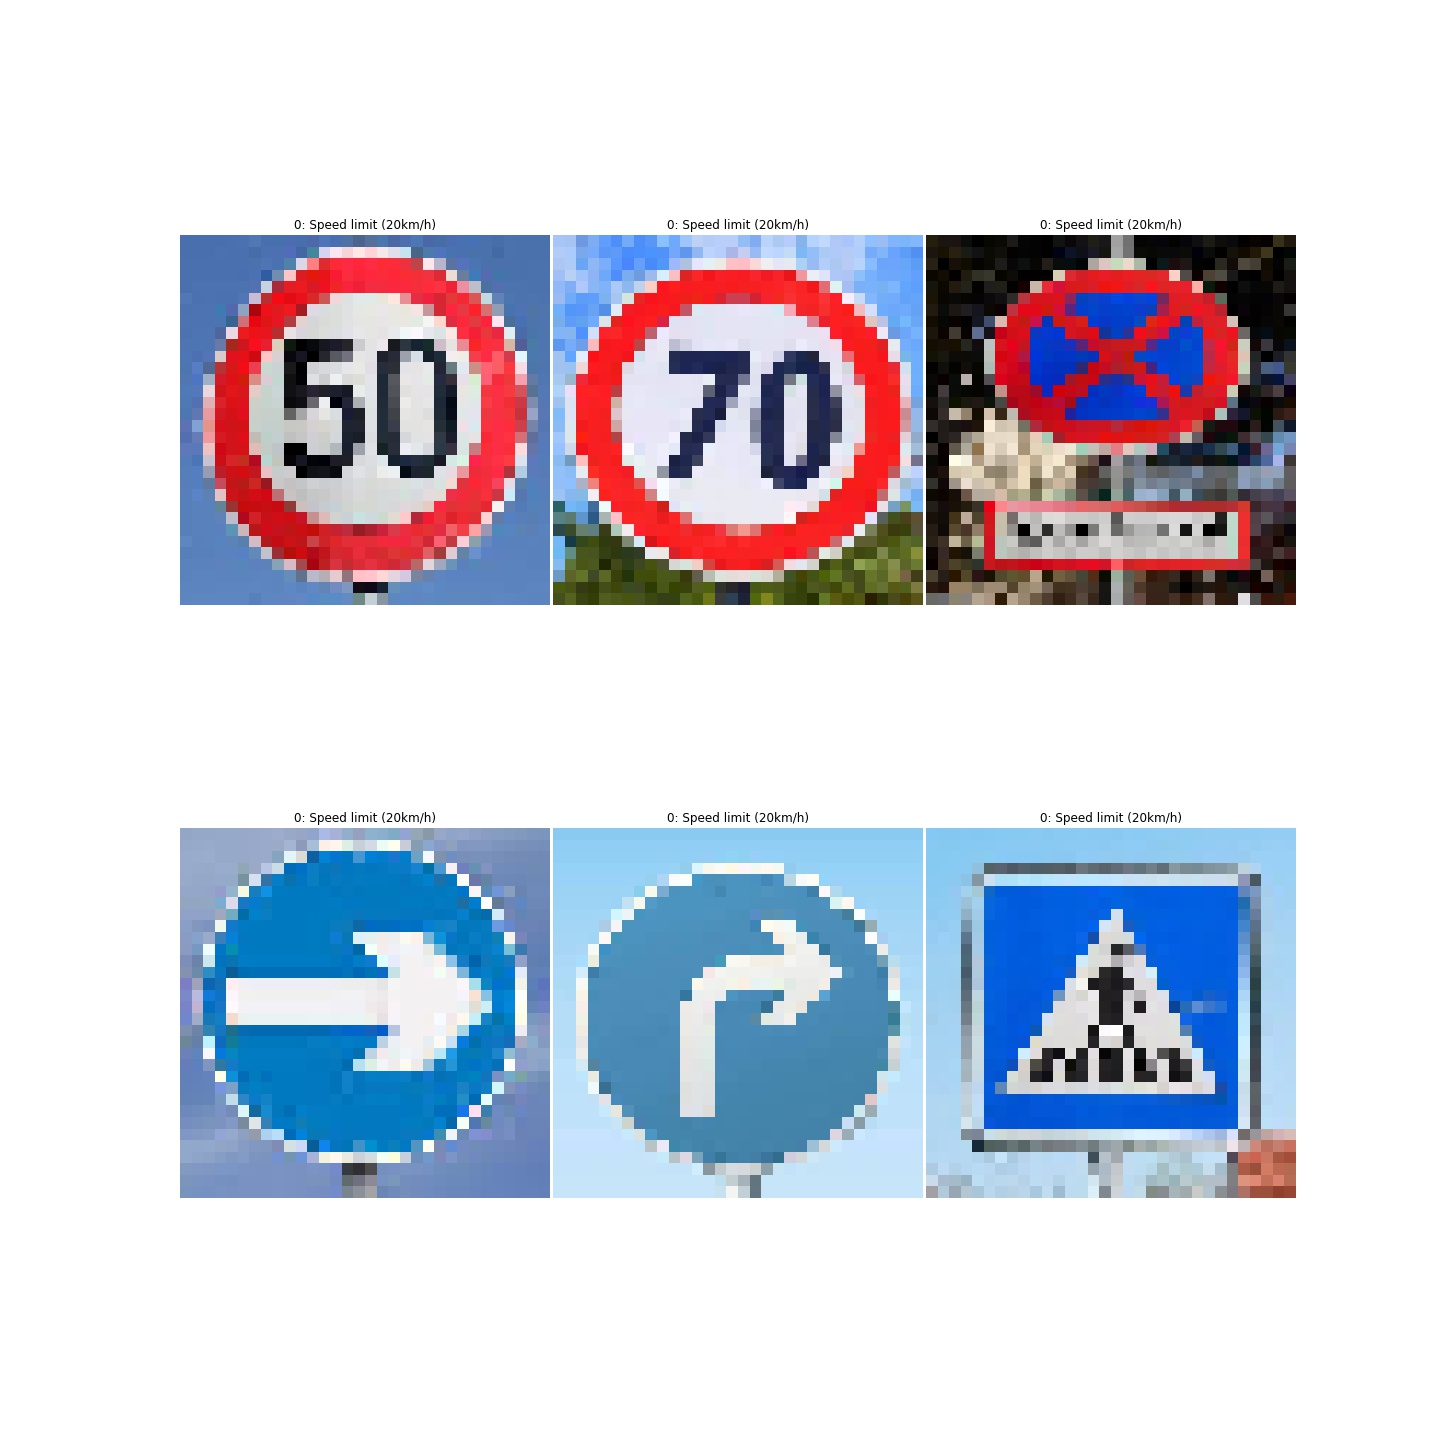
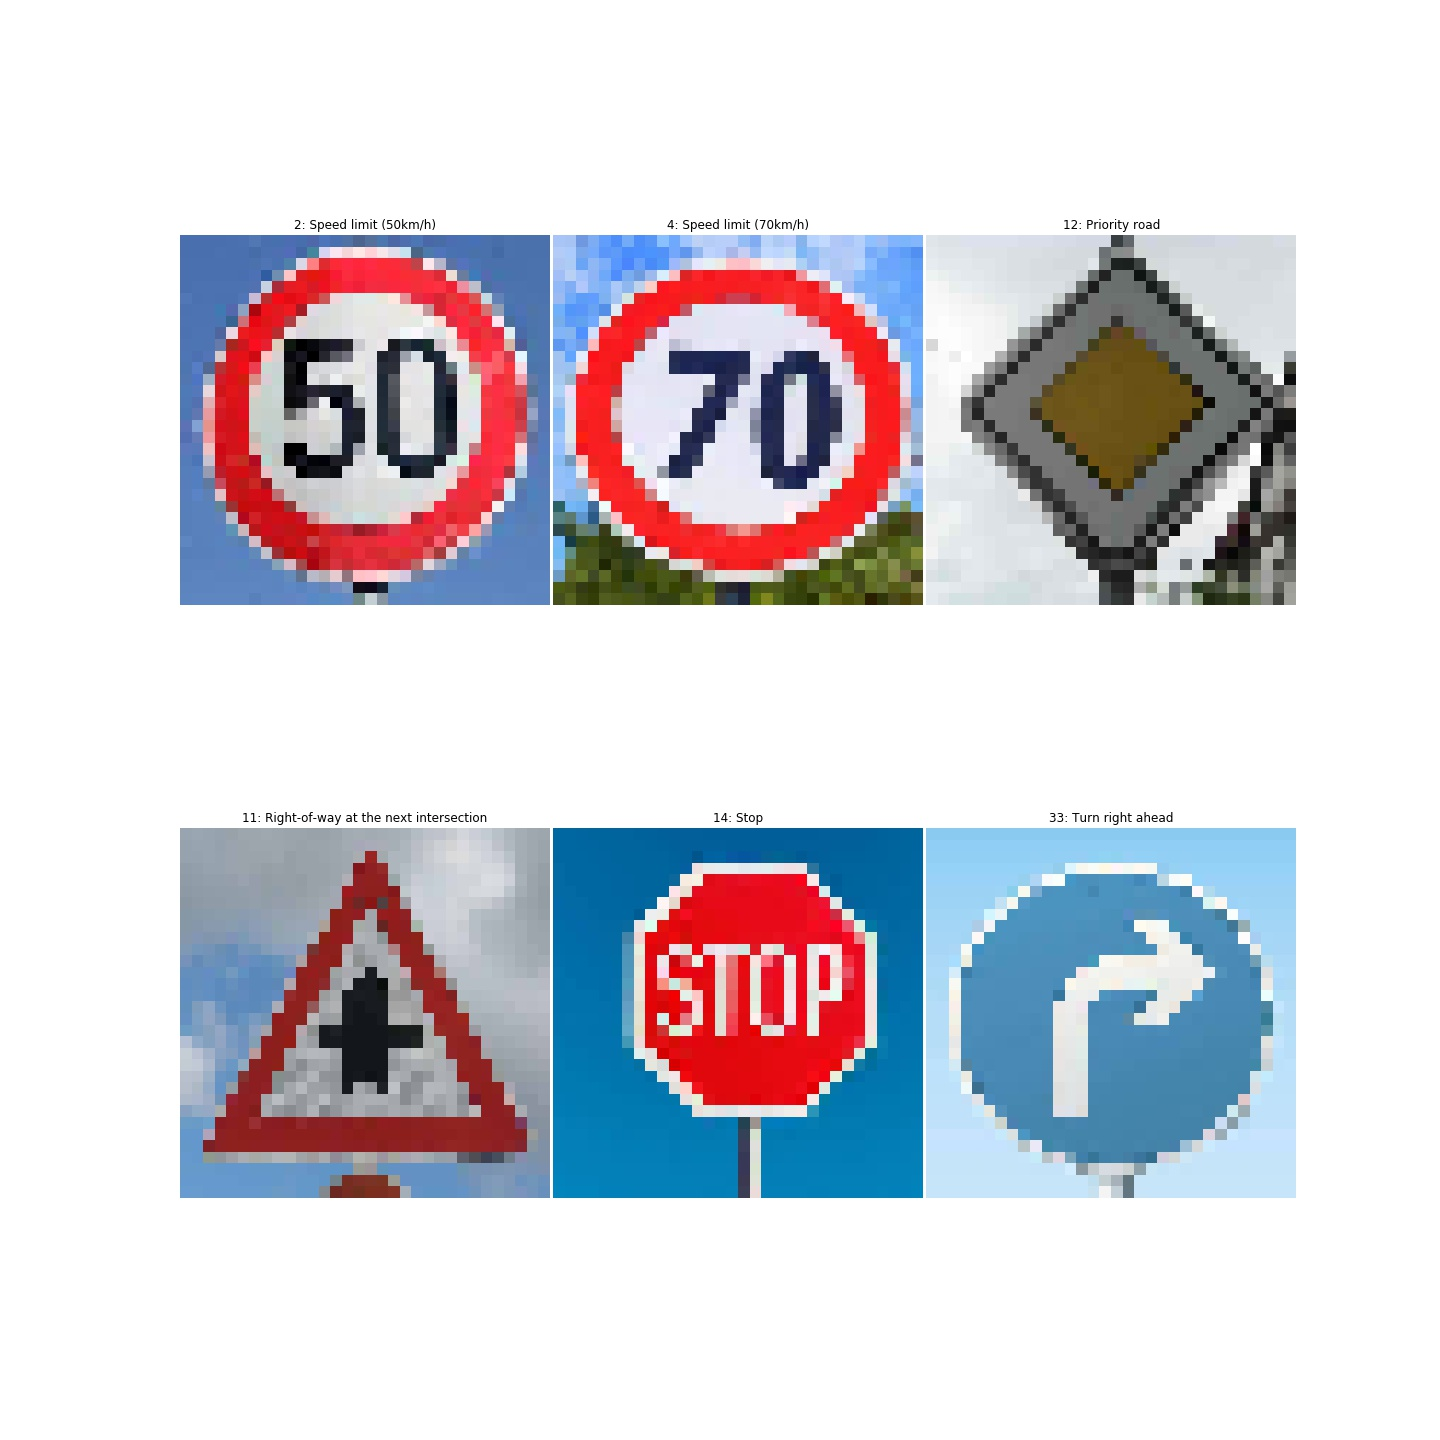
Downloaded new images that are in the CSV.

Changed region(s): [[0.125, 0.5625, 0.9062, 0.8438], [0.625, 0.1562, 0.9062, 0.4375]]

diff --git a/src/lenet.py b/src/lenet.py
@@ -17,9 +17,9 @@ class Mode(Enum):
 
 HYPER_PARAMETERS = {
     'LEARNING_RATE': 0.001,
-    'EPOCHS': 50,
+    'EPOCHS': 100,
     'BATCH_SIZE': 256,
-    'KEEP_PROBABILITY_DURING_TRAINING': 0.60,
+    'KEEP_PROBABILITY_DURING_TRAINING': 0.5,
     'mu': 0,
     'sigma': 0.1
 }
@@ -61,19 +61,23 @@ def LeNet(x, mode):
     The LeNet architecture accepts a 32x32xC image as input, where C is the number of color channels. Since the images are grayscale, C is 1 in this case.
 
     * Layer 1:
-      * Convolutional: output shape is 28x28x6.
-      * Activation.ReLU
+        * Convolutional: output shape is 28x28x6.
+        * Activation.ReLU
+        * Dropout
     * Pooling (max): output shape is 14x14x6.
     * Layer 2:
         * Convolutional.output shape is 10x10x16.
         * Activation.ReLU
+        * Dropout
     * Pooling (max): output shape is 5x5x16.
     * Layer 3:
         * Fully Connected: number of outputs 120.
         * Activation.ReLU
+        * Dropout
     * Layer 4:
         * Fully Connected: number of outputs 84.
         * Activation.ReLU
+        * Dropout
     * Layer 5:
         * Fully Connected: number of outputs 43 (logits).
 
@@ -148,6 +152,7 @@ def LeNet(x, mode):
     fc3_W = tf.Variable(tf.truncated_normal(shape=(84, 43), mean=(HYPER_PARAMETERS['mu']), stddev=(
         HYPER_PARAMETERS['sigma'])))
     fc3_b = tf.Variable(tf.zeros(43))
+
     logits = tf.matmul(fc2, fc3_W) + fc3_b
 
     return logits
